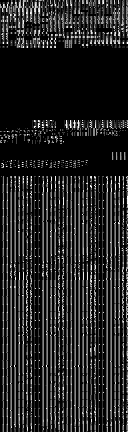
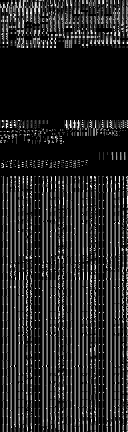
Make SonicGil and both side characters solid

Changed region(s): [[0.0, 0.2708, 0.4375, 0.3009]]

diff --git a/src/main/java/net/krusher/graphics/SonicHammockGraphics.java b/src/main/java/net/krusher/graphics/SonicHammockGraphics.java
@@ -58,8 +58,11 @@ public final class SonicHammockGraphics {
     // Do NOT use 0x3E0..0x3FF: the walking handler at ROM 0x00B204
     // constructs those IDs at runtime (ADDI.W #$3E0,D0 at 0x00B22A).
     // No static map reference does not mean a metatile is free!
-    static final int FIRST_CUSTOM_METATILE = 0x3D0;
-    private static final int CUSTOM_METATILE_COUNT = 16;
+    static final int FIRST_CUSTOM_METATILE = 0x3C0;
+    private static final int CUSTOM_METATILE_COUNT = 32;
+    // Ordinary impassable terrain, also used by stock beach metatiles such
+    // as 0x7B/0x7C. No damage, breakable-object or footprint behaviour bits.
+    static final int SOLID_TERRAIN = 0x0003;
     private static final int FOOTPRINT_FIRST_METATILE = 0x3E0;
     private static final int FOOTPRINT_METATILE_COUNT = 32;
     private static final int SIDE_PALETTE_LINE = 1;
@@ -85,7 +88,7 @@ public final class SonicHammockGraphics {
         0x04, (byte) 0x8A, 0x0A, 0x64, 0x0C, (byte) 0x86, 0x0E, (byte) 0xC8,
     };
 
-    private record ScenePositions(int sonicX, int sonicY,
+    record ScenePositions(int sonicX, int sonicY,
                                   int leftX, int leftY,
                                   int rightX, int rightY) {}
 
@@ -96,6 +99,7 @@ public final class SonicHammockGraphics {
         final int mapOffset;
         final int[] attributes = new int[4];
         final int terrain;
+        boolean solid;
 
         CellPatch(int mapOffset, byte[] map) {
             this.mapOffset = mapOffset;
@@ -258,12 +262,7 @@ public final class SonicHammockGraphics {
 
         byte[] left = readSideTiles(leftEditPath);
         byte[] right = readSideTiles(rightEditPath);
-        Map<Long, TilePlacement> placements = new LinkedHashMap<Long, TilePlacement>();
-        addPanelPlacements(placements, left, positions.leftX, positions.leftY,
-                VRAM_FIRST_TILE + LEFT_SIDE_STORAGE_TILE);
-        addPanelPlacements(placements, right, positions.rightX, positions.rightY,
-                VRAM_FIRST_TILE + RIGHT_SIDE_STORAGE_TILE);
-        patchPanelPlacements(map, placements);
+        patchSceneMap(map, left, right, positions);
 
         boolean sameEditableTiles = currentMap != null;
         for (int i = 0; sameEditableTiles && i < currentMap.length; i++) {
@@ -286,7 +285,7 @@ public final class SonicHammockGraphics {
     }
 
     static void restoreReservedPlacements(byte[] map, byte[] originalMap) {
-        for (int offset = 0x2000; offset + 1 < map.length; offset += 2) {
+        for (int offset = ROOM_MAP_BASE; offset + 1 < map.length; offset += 2) {
             int id = readU16(map, offset) & 0x3FF;
             boolean current = id >= FIRST_CUSTOM_METATILE
                     && id < FIRST_CUSTOM_METATILE + CUSTOM_METATILE_COUNT;
@@ -312,7 +311,8 @@ public final class SonicHammockGraphics {
                 }
             }
         }
-        for (int p = 0x2000; p + 1 < originalMap.length; p += 2) {
+        // The preceding bytes are terrain and entity tables, not map cells.
+        for (int p = ROOM_MAP_BASE; p + 1 < originalMap.length; p += 2) {
             int id = readU16(originalMap, p) & 0x3FF;
             if (id >= FIRST_CUSTOM_METATILE && id < FIRST_CUSTOM_METATILE + CUSTOM_METATILE_COUNT) {
                 throw new IllegalStateException("panel reservation is referenced by the original map");
@@ -359,7 +359,12 @@ public final class SonicHammockGraphics {
         }
     }
 
-    private static void patchPanelPlacements(byte[] map, Map<Long, TilePlacement> placements) {
+    static void patchSceneMap(byte[] map, byte[] left, byte[] right, ScenePositions positions) {
+        Map<Long, TilePlacement> placements = new LinkedHashMap<Long, TilePlacement>();
+        addPanelPlacements(placements, left, positions.leftX, positions.leftY,
+                VRAM_FIRST_TILE + LEFT_SIDE_STORAGE_TILE);
+        addPanelPlacements(placements, right, positions.rightX, positions.rightY,
+                VRAM_FIRST_TILE + RIGHT_SIDE_STORAGE_TILE);
         Map<Integer, CellPatch> cells = new LinkedHashMap<Integer, CellPatch>();
         for (TilePlacement placement : placements.values()) {
             int metaX = Math.floorDiv(placement.roomTileX, 2);
@@ -388,20 +393,56 @@ public final class SonicHammockGraphics {
             // so these static tiles always remain behind Jesus Gil.
             cell.attributes[local] = (originalAttribute & 0x6000) | storedTile;
         }
+        addSolidRectangle(map, cells, positions.sonicX, positions.sonicY, 48, 48);
+        addSolidRectangle(map, cells, positions.leftX, positions.leftY, 24, 48);
+        addSolidRectangle(map, cells, positions.rightX, positions.rightY, 24, 48);
         if (cells.size() > CUSTOM_METATILE_COUNT) {
-            throw new IllegalStateException("the configured panels need " + cells.size()
+            throw new IllegalStateException("the configured scene needs " + cells.size()
                     + " custom metatiles; maximum is " + CUSTOM_METATILE_COUNT);
         }
         int id = FIRST_CUSTOM_METATILE;
         for (CellPatch cell : cells.values()) {
-            // The background decoration must not change collision/terrain.
-            writeU16(map, 0x2000 + id * 2, cell.terrain);
+            writeU16(map, 0x2000 + id * 2, cell.solid ? SOLID_TERRAIN : cell.terrain);
             for (int i = 0; i < cell.attributes.length; i++) {
                 writeU16(map, id * 8 + i * 2, cell.attributes[i]);
             }
             int oldMapWord = readU16(map, cell.mapOffset);
             writeU16(map, cell.mapOffset, oldMapWord & 0xFC00 | id);
             id++;
+        }
+    }
+
+    private static void addSolidRectangle(byte[] map, Map<Integer, CellPatch> cells,
+                                           int offsetX, int offsetY, int width, int height) {
+        int x = Math.addExact(ORIGINAL_SONIC_TILE_X * 8, offsetX);
+        int y = Math.addExact(ORIGINAL_SONIC_TILE_Y * 8, offsetY);
+        int lastX = Math.addExact(x, width - 1);
+        int lastY = Math.addExact(y, height - 1);
+        int roomRows = (map.length - ROOM_MAP_BASE) / (ROOM_METATILES_PER_ROW * 2);
+        if (x < 0 || y < 0 || lastX >= ROOM_METATILES_PER_ROW * 16 || lastY >= roomRows * 16) {
+            throw new IllegalStateException("solid character position falls outside the room map");
+        }
+        // Terrain collision is per 16x16 metatile, not per sprite pixel.
+        for (int my = y / 16; my <= lastY / 16; my++) {
+            for (int mx = x / 16; mx <= lastX / 16; mx++) {
+                int at = ROOM_MAP_BASE + (my * ROOM_METATILES_PER_ROW + mx) * 2;
+                CellPatch cell = cells.computeIfAbsent(at, key -> new CellPatch(key, map));
+                cell.solid = true;
+            }
+        }
+    }
+
+    private static void verifySceneSolidity(byte[] map, ScenePositions positions) {
+        Map<Integer, CellPatch> cells = new LinkedHashMap<Integer, CellPatch>();
+        addSolidRectangle(map, cells, positions.sonicX, positions.sonicY, 48, 48);
+        addSolidRectangle(map, cells, positions.leftX, positions.leftY, 24, 48);
+        addSolidRectangle(map, cells, positions.rightX, positions.rightY, 24, 48);
+        for (int at : cells.keySet()) {
+            int id = readU16(map, at) & 0x3FF;
+            if (id < FIRST_CUSTOM_METATILE || id >= FIRST_CUSTOM_METATILE + CUSTOM_METATILE_COUNT
+                    || readU16(map, 0x2000 + id * 2) != SOLID_TERRAIN) {
+                throw new IllegalStateException("Jesus Gil or a side character is not solid");
+            }
         }
     }
 
@@ -622,8 +663,10 @@ public final class SonicHammockGraphics {
         addPanelPlacements(placements, right, positions.rightX, positions.rightY,
                 VRAM_FIRST_TILE + RIGHT_SIDE_STORAGE_TILE);
         verifyPanelPlacements(map, originalMap, placements);
+        verifySceneSolidity(map, positions);
         System.out.println("Sonic scene: all three configured positions, both 24x48 editors,"
-                + " palettes and tilemap references are byte-exact; all 32 footprint metatiles preserved.");
+                + " palettes and tilemap references are byte-exact; all three characters solid;"
+                + " all 32 footprint metatiles preserved.");
     }
 
     private static void verifySideBytes(byte[] expanded, byte[] panel, int destinationTile,
@@ -652,8 +695,8 @@ public final class SonicHammockGraphics {
                     + Math.floorMod(placement.roomTileX, 2);
             int actual = readU16(map, id * 8 + local * 2);
             int originalId = readU16(originalMap, mapOffset) & 0x3FF;
-            if (readU16(map, 0x2000 + id * 2) != readU16(originalMap, 0x2000 + originalId * 2)) {
-                throw new IllegalStateException("panel changed the original terrain/collision behaviour");
+            if (readU16(map, 0x2000 + id * 2) != SOLID_TERRAIN) {
+                throw new IllegalStateException("side character must use solid terrain");
             }
             int originalAttribute = readU16(originalMap, originalId * 8 + local * 2);
             int expected = (originalAttribute & 0x6000)

diff --git a/src/test/java/net/krusher/graphics/SonicHammockGraphicsTest.java b/src/test/java/net/krusher/graphics/SonicHammockGraphicsTest.java
@@ -11,7 +11,7 @@ class SonicHammockGraphicsTest {
     }
 
     @Test void reservationIsOutsideDynamicFootprints() {
-        assertEquals(0x3D0, SonicHammockGraphics.FIRST_CUSTOM_METATILE);
+        assertEquals(0x3C0, SonicHammockGraphics.FIRST_CUSTOM_METATILE);
         SonicHammockGraphics.validatePanelReservation(new byte[0x6C04]);
     }
 
@@ -88,6 +88,74 @@ class SonicHammockGraphicsTest {
         assertArrayEquals(expected, rom); // idempotent even with negative offsets
     }
 
+    private static byte[] sceneFixture() {
+        byte[] map = new byte[0x6C04];
+        for (int i = 0; i < 4; i++) word(map, 0x27 * 8 + i * 2, 0x2014 + i);
+        for (int at = 0x2C04; at < map.length; at += 2) word(map, at, 0x27);
+        return map;
+    }
+
+    private static int wordAt(byte[] data, int at) {
+        return (data[at] & 255) << 8 | data[at + 1] & 255;
+    }
+
+    private static int terrainAt(byte[] map, int x, int y) {
+        int id = wordAt(map, 0x2C04 + (y / 16 * 64 + x / 16) * 2) & 1023;
+        return wordAt(map, 0x2000 + id * 2);
+    }
+
+    @Test void allThreeRectanglesAreSolidButSurroundingGroundAndGraphicsStayIntact() {
+        byte[] original = sceneFixture();
+        byte[] map = original.clone();
+        byte[] blank = new byte[18 * 32];
+        var pos = new SonicHammockGraphics.ScenePositions(-24, 0, -40, -8, 16, -8);
+        SonicHammockGraphics.patchSceneMap(map, blank, blank, pos);
+        int[][] rectangles = {{760,624,48,48}, {744,616,24,48}, {800,616,24,48}};
+        for (int[] r : rectangles) {
+            for (int y = r[1]; y < r[1] + r[3]; y++) {
+                for (int x = r[0]; x < r[0] + r[2]; x++) {
+                    assertEquals(3, terrainAt(map, x, y));
+                }
+            }
+        }
+        for (int y = 36; y <= 44; y++) for (int x = 44; x <= 54; x++) {
+            boolean solid = false;
+            for (int[] r : rectangles) {
+                solid |= x * 16 < r[0] + r[2] && x * 16 + 16 > r[0]
+                        && y * 16 < r[1] + r[3] && y * 16 + 16 > r[1];
+            }
+            assertEquals(solid ? 3 : 0, terrainAt(map, x * 16, y * 16));
+            int id = wordAt(map, 0x2C04 + (y * 64 + x) * 2) & 1023;
+            for (int q = 0; q < 4; q++) assertEquals(0x2014 + q, wordAt(map, id * 8 + q * 2));
+        }
+        SonicHammockGraphics.verifyFootprints(map, original);
+    }
+
+    @Test void movingTheSceneRemovesOldCollisionAndRebuildsAtAllThreeNewPositions() {
+        byte[] original = sceneFixture();
+        byte[] map = original.clone();
+        byte[] blank = new byte[18 * 32];
+        SonicHammockGraphics.patchSceneMap(map, blank, blank,
+                new SonicHammockGraphics.ScenePositions(-24, 0, -40, -8, 16, -8));
+        SonicHammockGraphics.restoreReservedPlacements(map, original);
+        assertArrayEquals(original, map);
+        SonicHammockGraphics.patchSceneMap(map, blank, blank,
+                new SonicHammockGraphics.ScenePositions(-23, 129, -240, 120, 144, 120));
+        assertEquals(0, terrainAt(map, 784, 648));
+        assertEquals(3, terrainAt(map, 784, 768));
+        assertEquals(3, terrainAt(map, 552, 752));
+        assertEquals(3, terrainAt(map, 936, 752));
+        SonicHammockGraphics.restoreReservedPlacements(map, original);
+        assertArrayEquals(original, map);
+    }
+
+    @Test void outOfRoomSolidsAreRejected() {
+        byte[] blank = new byte[18 * 32];
+        assertThrows(IllegalStateException.class,
+                () -> SonicHammockGraphics.patchSceneMap(sceneFixture(), blank, blank,
+                        new SonicHammockGraphics.ScenePositions(-800,0,-40,-8,16,-8)));
+    }
+
     // Also runnable with javac/java and the cached JUnit jars, without Maven.
     public static void main(String[] args) {
         var test = new SonicHammockGraphicsTest();
@@ -96,6 +164,9 @@ class SonicHammockGraphicsTest {
         test.detectsEveryFootprintDefinitionBeingOverwritten();
         test.migratesBothBrokenLayoutsAndCleansPreviousSafePlacement();
         test.xyOffsetsOnlyChangeTheEightSpriteCoordinates();
-        System.out.println("SonicHammockGraphics: 5 regression tests passed.");
+        test.allThreeRectanglesAreSolidButSurroundingGroundAndGraphicsStayIntact();
+        test.movingTheSceneRemovesOldCollisionAndRebuildsAtAllThreeNewPositions();
+        test.outOfRoomSolidsAreRejected();
+        System.out.println("SonicHammockGraphics: 8 regression tests passed.");
     }
 }

diff --git a/SONIC_HAMACA.md b/SONIC_HAMACA.md
@@ -76,7 +76,8 @@ Cada lateral tiene X/Y independientes en `sonic_scene_positions.txt`, siempre
 múltiplos de 8. Las seis coordenadas son relativas a la posición original
 del personaje; mover a Gil no arrastra automáticamente los laterales.
 Un tile completamente vacío deja intacto el fondo original. Los tiles
-dibujados se colocan detrás de Gil y conservan el comportamiento del terreno.
+dibujados se colocan detrás de Gil. Las tres figuras son sólidas: sus zonas
+de colisión se generan a partir de sus respectivas coordenadas.
 
 **No se cambia ninguna paleta.** Los PNG conservan los 16 colores originales
 de la línea 1 de la playa. Mantén el PNG indexado y esa paleta, sin añadir
@@ -89,8 +90,10 @@ versión, `0x3F1–0x3FC`). **No estaban libres**: la rutina de pisadas de la RO
 en `0x00B204` calcula IDs `0x3E0–0x3FF` al caminar, aunque no aparezcan como
 referencias estáticas. En `0x00B22A` ejecuta `ADDI.W #$3E0,D0`.
 
-Ahora los paneles reservan **`0x3D0–0x3DF`**, comprobando que sus definiciones
+Ahora la escena reserva **`0x3C0–0x3DF`**, comprobando que sus definiciones
 y atributos de terreno estén vacíos y que el mapa original no los referencie.
+La reserva anterior `0x3D0–0x3DF` se ha ampliado para incluir las celdas
+de colisión de Gil, sin ocupar las huellas ni más espacio gráfico en VRAM.
 Se restauran las 32 definiciones de huellas y sus atributos de terreno si se
 inserta desde un mapa generado por las versiones antiguas.
 
@@ -107,6 +110,22 @@ El pipeline vuelve a generar los dos paneles y el mapa antes de insertar.
 El movimiento vertical usa los cuatro campos Y reales (`0x2F858`,
 `0x2F860`, `0x2F868`, `0x2F870`); no toca el puntero de animación en `0x2F850`.
 
+### Colisión de Gil y las muchachas
+
+Gil tiene una caja de 48x48 y cada muchacha una de 24x48, ancladas en las
+mismas X/Y que sus gráficos. El motor resuelve la colisión por metatiles
+de **16x16**: las cajas se redondean hacia fuera a esa cuadrícula. No es
+colisión por píxel; los huecos transparentes dentro de cada caja también
+quedan bloqueados. Al recolocar una figura y regenerar la ROM se elimina
+su colisión anterior y se crea en la posición nueva, sin dejar paredes invisibles
+en el lugar antiguo.
+
+Las celdas son copias locales con terreno `0x0003`, el mismo tipo de obstáculo
+no transitable que usan metatiles originales de la playa como `0x7B/0x7C`.
+No se modifica la definición compartida del suelo ni se añaden efectos de
+daño, rotura o pisadas. Fuera de las cajas se conserva el terreno original.
+Los gráficos, las paletas y las animaciones no cambian.
+
 ### Comprobar
 
 Después de compilar y ejecutar `CholeilSDK i`:
@@ -115,11 +134,14 @@ Después de compilar y ejecutar `CholeilSDK i`:
 java -cp target/classes net.krusher.graphics.SonicHammockGraphics verify-scene Choleil.md
 ```
 
-Comprueba los PNG, posiciones, referencias de mapa, paletas y las 32
+Comprueba los PNG, posiciones, referencias de mapa, paletas, las tres zonas
+sólidas y las 32
 definiciones/atributos de las huellas. `SonicHammockGraphicsTest` cubre la
 reserva, detección de corrupción, migración de ambas versiones anteriores
-y recolocación X/Y sin tocar otros campos del sprite.
-Suite completa ejecutada con Java 24: **84 pruebas correctas, ninguna omitida**.
+y recolocación X/Y sin tocar otros campos del sprite. También comprueba
+que las tres figuras bloqueen el paso, que el suelo exterior quede intacto
+y que moverlas elimine sus colisiones antiguas.
+Suite completa ejecutada con Java 24: **87 pruebas correctas, ninguna omitida**.
 
 Prueba realizada en BizHawk 2.11.1 con una copia de la ROM: recarga real de
 la habitación, desplazamiento, pausa/salida y caminata en arena. Se registraron
@@ -127,6 +149,14 @@ la habitación, desplazamiento, pausa/salida y caminata en arena. Se registraron
 en VRAM y la CRAM completa coinciden con la ROM original. Los tiles de los
 paneles permanecen idénticos al bloque insertado tras caminar y pausar;
 en la ejecución de control, esos slots VRAM estaban vacíos.
+
+Prueba adicional de solidez en BizHawk: tres aproximaciones desde abajo,
+las dos muchachas desde los extremos exteriores, Gil desde arriba y Gil
+después de pausar/salir. **Las siete quedan bloqueadas**; en la ROM anterior
+las siete atravesaban las figuras. La caminata posterior sigue generando
+huellas (129 llamadas). Las definiciones/atributos de las 32 huellas, sus
+píxeles, los gráficos de las figuras y toda la CRAM permanecen idénticos a
+la versión anterior, antes y después de pausar.
 
 Un savestate antiguo conserva RAM/VRAM antiguas: para validar hay que
 recargar la habitación, no limitarse a cargar ese estado sobre la ROM nueva.
